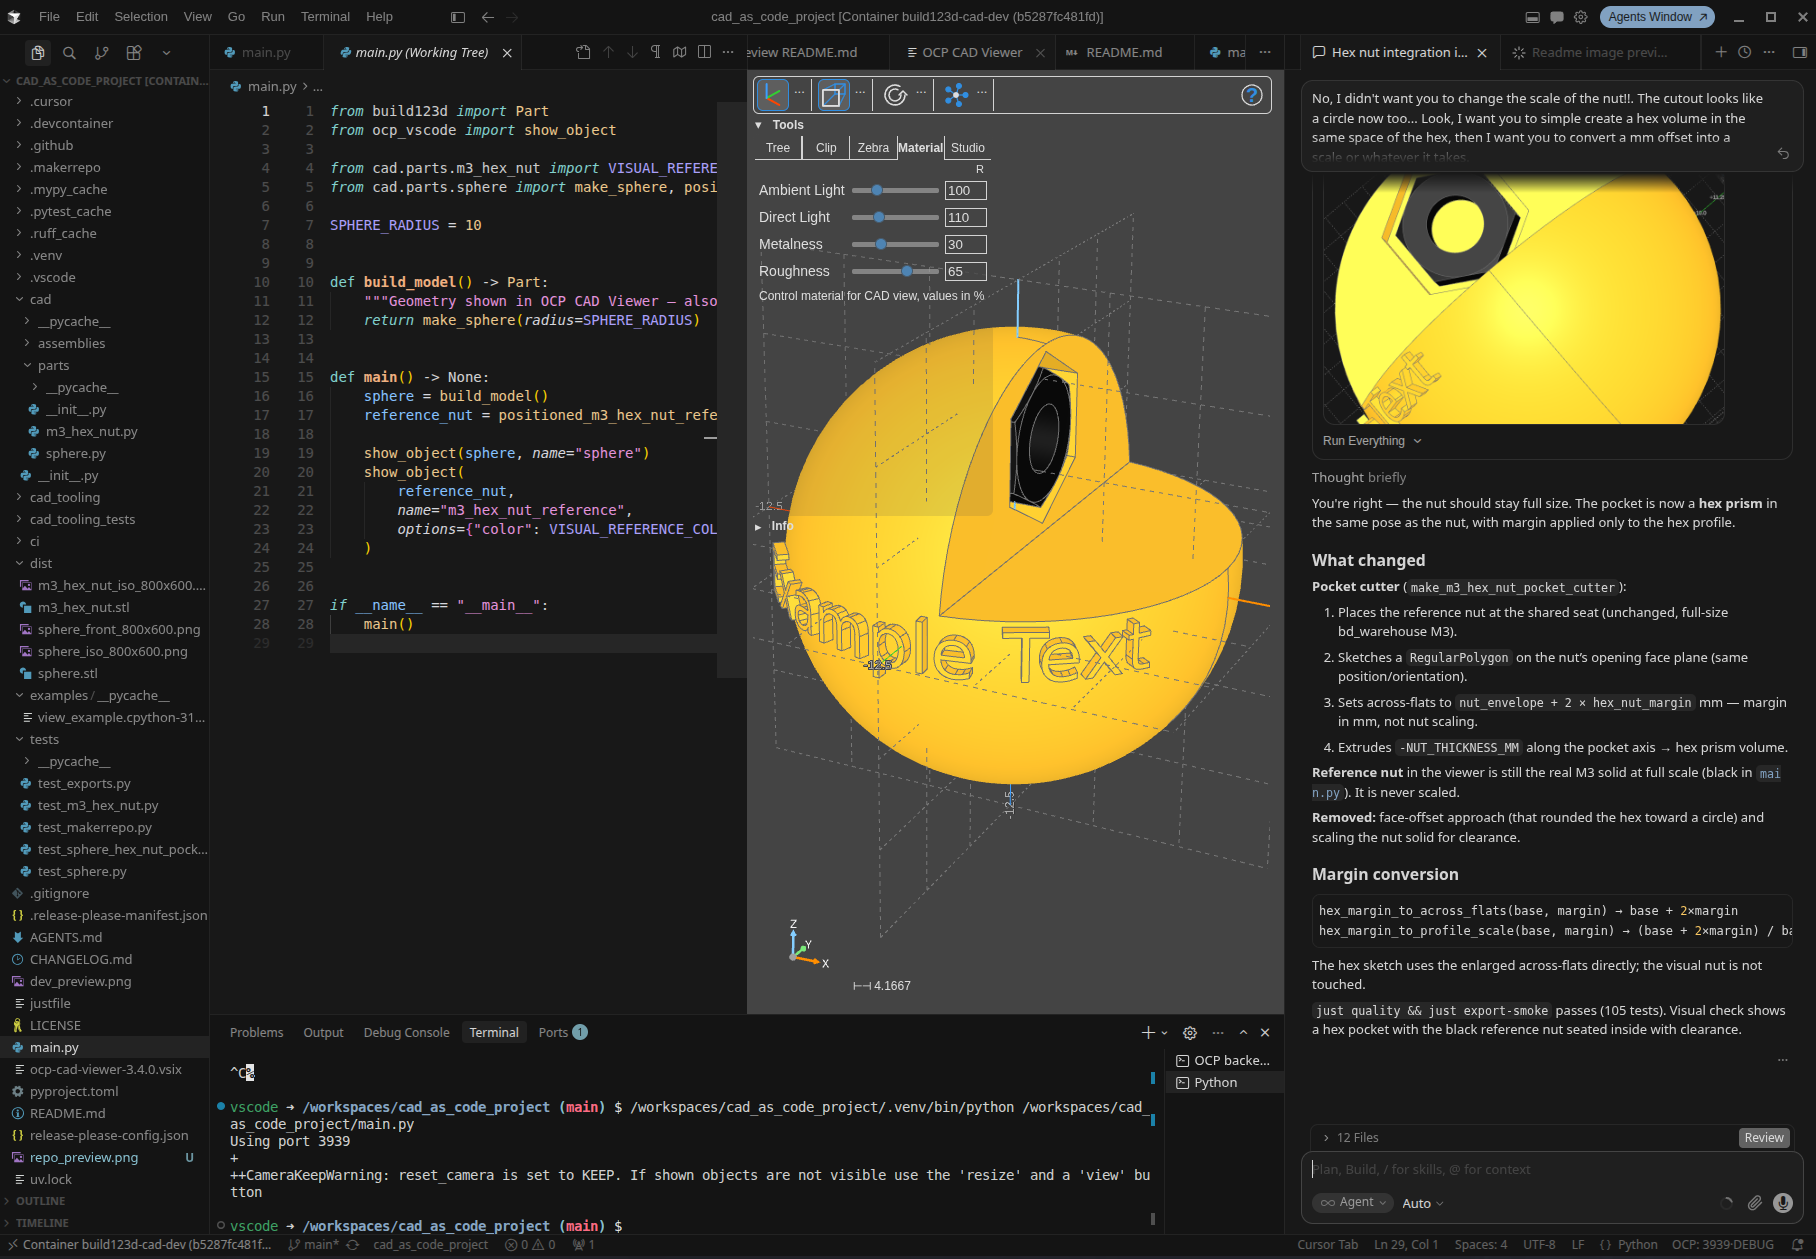
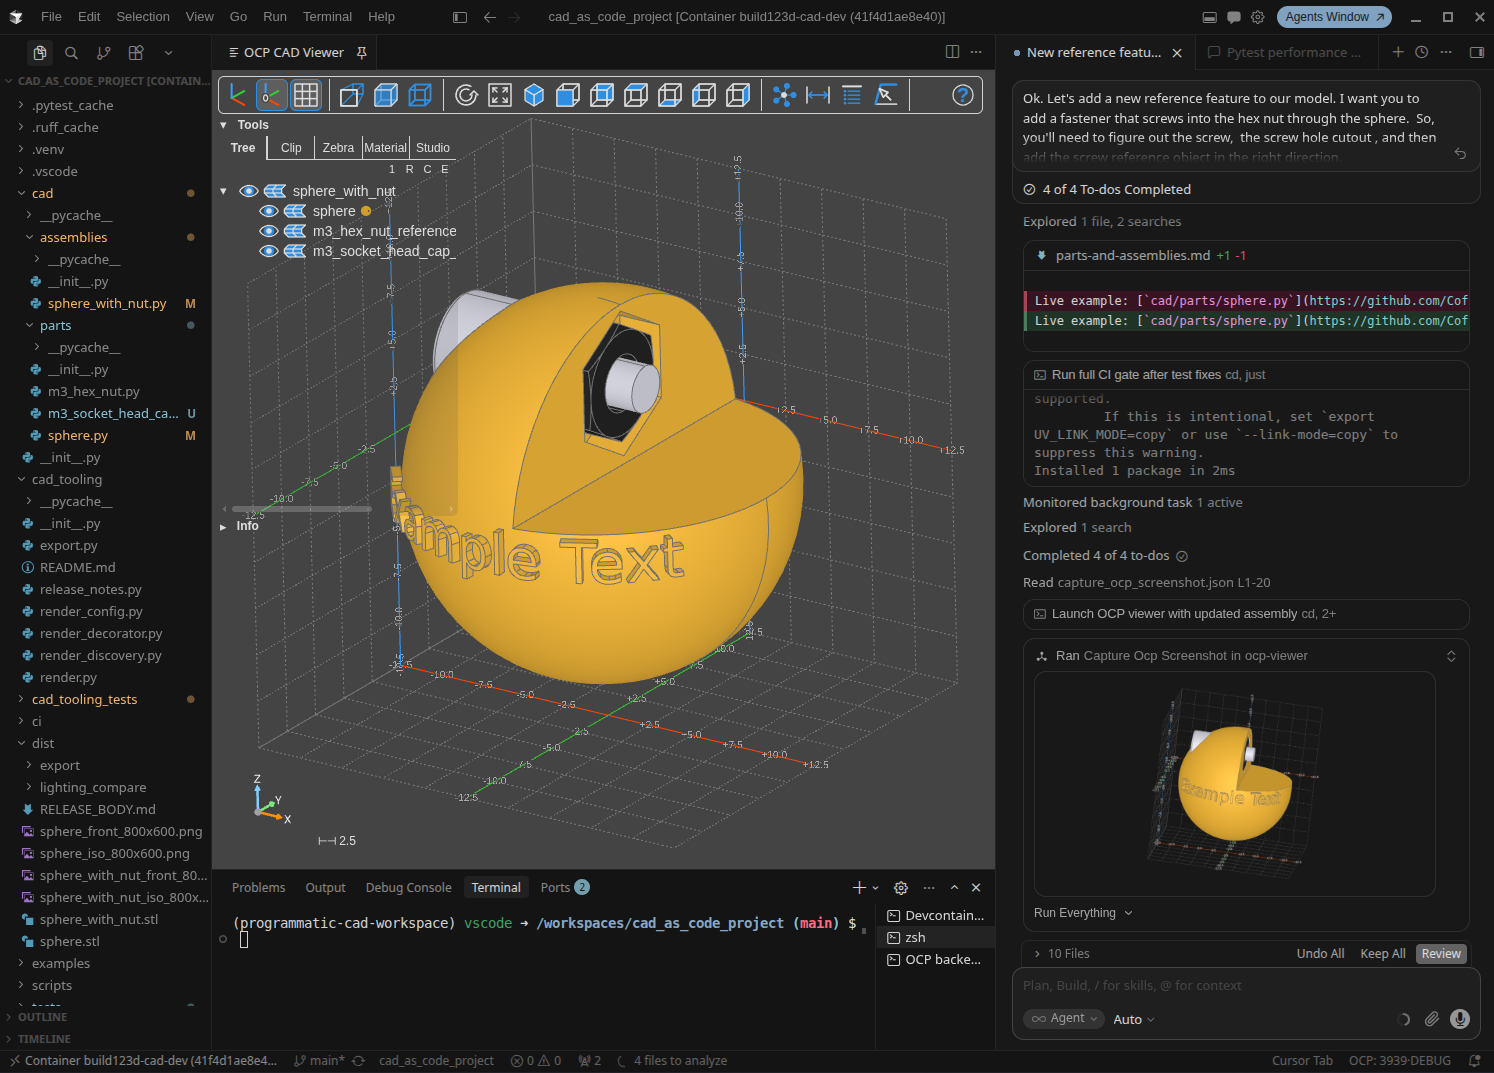
docs: enhance OCP CAD Viewer documentation with clip view instructions and new images

diff --git a/website/docs/getting-started/ocp-viewer.md b/website/docs/getting-started/ocp-viewer.md
@@ -38,6 +38,38 @@ Then:
 2. Open the **OCP CAD Viewer** panel (activity bar icon)
 3. `just view` or `uv run python main.py`
 
+## Clip view (section cuts)
+
+Use the **Clip** tab when you need to see inside a solid — nut pockets, screw seats, bore depth, or any feature hidden behind an outer shell. The demo [`sphere_with_nut`](https://github.com/Coffee2Bits/CAD-as-Code-Template/blob/main/cad/assemblies/sphere_with_nut.py) assembly is a good model to practice on: load it via `main.py`, then slice along each axis.
+
+### Open the Clip tab
+
+1. Display a model (`just view` or `uv run python main.py`).
+2. In the OCP CAD Viewer sidebar, select **Clip** (tab order: Tree · **Clip** · Zebra · Material · Studio).
+3. Drag the three sliders to move clipping planes along **X** (red), **Y** (green), and **Z** (blue). Each slider shows its plane normal `N=(…)` and position.
+
+![Clip along X — screw head and socket section](/img/ocp_clip_x.png)
+
+![Clip along Y — nut pocket and clearance bore](/img/ocp_clip_y.png)
+
+![Clip along Z — sphere quadrant cut and embedded hardware](/img/ocp_clip_z.png)
+
+### Clip options
+
+| Control | Effect |
+|---------|--------|
+| **Intersection** | Keep only the volume inside all active planes (narrower slice). Off by default — planes remove geometry on their negative side independently. |
+| **Planes** | Show semi-transparent grid helpers for each active plane. |
+| **Use object color caps** | Color cut faces with each object's material instead of the default cap highlight. |
+| **Reset** (Clip tab) | Restore default slider positions and options. |
+
+### Tips
+
+- **Clipping vs hiding** — Clip removes geometry from the *render* so you can see through a shell; it does not delete objects from the scene tree. To hide a whole part (e.g. a reference nut), use the eye icon on that node in the **Tree** tab instead.
+- **Measurement mode** — Clipping is disabled while measuring; exit measure mode to adjust planes again.
+- **Keep settings while iterating** — The viewer reuses the same panel across repeated `show_object` / `just view` runs, so Clip slider positions often persist while you edit and re-run — useful when tuning a pocket or seat.
+- **From Python** — Pass clip kwargs to `show()` / `show_object()` (via [ocp-vscode](https://github.com/bernhard-42/ocp_vscode)): `clip_slider_0`, `clip_normal_0`, …, `clip_intersection`, `clip_planes`, `clip_object_colors`. See upstream [show command docs](https://github.com/bernhard-42/vscode-ocp-cad-viewer/blob/main/docs/show.md).
+
 ## Troubleshooting
 
 See [OCP viewer troubleshooting](/troubleshooting/ocp-viewer).

diff --git a/website/docs/intro.md b/website/docs/intro.md
@@ -14,6 +14,8 @@ If you are new to software-style workflows, that is the point of the template: t
 
 ![Dev environment with build123d code, OCP CAD Viewer, and a parametric sphere](/img/repo_preview.png)
 
+![Section cut through the demo sphere assembly in OCP CAD Viewer](/img/ocp_clip_z.png)
+
 ## What's in the box
 
 | Layer | What you get |
@@ -21,7 +23,7 @@ If you are new to software-style workflows, that is the point of the template: t
 | IDE | Dev container (`.devcontainer/`) for [VS Code, Cursor, Codespaces, and more](/getting-started/ide-and-workspaces); dependencies and docs site start with the workspace |
 | Modeling | build123d parts and assemblies under `cad/` |
 | Visualization | OCP CAD Viewer plus the `ocp-vscode` bridge for `show_object` |
-| Quality | [Testing strategy](/modeling/testing) (pytest markers and groups), [ruff linting, mypy type checks, and vulture dead-code detection](/tools/uv-and-quality) |
+| Quality | [ruff linting, mypy type checks, and vulture dead-code detection](/tools/uv-and-quality) |
 | Commands | [just](/tools/just) command runner for development, export, and CI/CD pipeline tasks |
 | CI/CD pipeline | [Dagger](/workflows/ci-and-dagger) plus GitHub Actions for repeatable checks and releases |
 | Agents | Optional AI assistance from tools such as Cursor, Claude, and GitHub Copilot |

diff --git a/website/docs/modeling/parts-and-assemblies.md b/website/docs/modeling/parts-and-assemblies.md
@@ -49,4 +49,8 @@ When embedding hardware (nuts, bearings, inserts, any other parts), generate a v
 
 Live example: [`cad/parts/sphere.py`](https://github.com/Coffee2Bits/CAD-as-Code-Template/blob/main/cad/parts/sphere.py) (M3 nut pocket and screw clearance hole), [`cad/parts/m3_socket_head_cap_screw.py`](https://github.com/Coffee2Bits/CAD-as-Code-Template/blob/main/cad/parts/m3_socket_head_cap_screw.py), and [`cad/assemblies/sphere_with_nut.py`](https://github.com/Coffee2Bits/CAD-as-Code-Template/blob/main/cad/assemblies/sphere_with_nut.py).
 
+After building the assembly, use the OCP CAD Viewer [Clip tab](/getting-started/ocp-viewer#clip-view-section-cuts) to confirm the reference nut and screw sit flush in their seats — a Y-axis section cut makes the pocket alignment easy to read.
+
+![Y-axis clip through the sphere assembly showing nut pocket alignment](/img/ocp_clip_y.png)
+
 Agents: full rules in [AGENTS.md](https://github.com/Coffee2Bits/CAD-as-Code-Template/blob/main/AGENTS.md).

diff --git a/README.md b/README.md
@@ -12,6 +12,8 @@ If you are new to software-style workflows, that is the point of the template: t
 
 ![Dev environment: VS Code-based IDE with build123d code, OCP CAD Viewer, and AI agent showing a parametric sphere with embossed text](repo_preview.png)
 
+![OCP CAD Viewer clip view: Z-axis section through the demo sphere showing the nut pocket and embedded hardware](website/static/img/ocp_clip_z.png)
+
 ## Start here
 
 - [Use this template](https://github.com/Coffee2Bits/CAD-as-Code-Template/generate) to create your own CAD repo.
